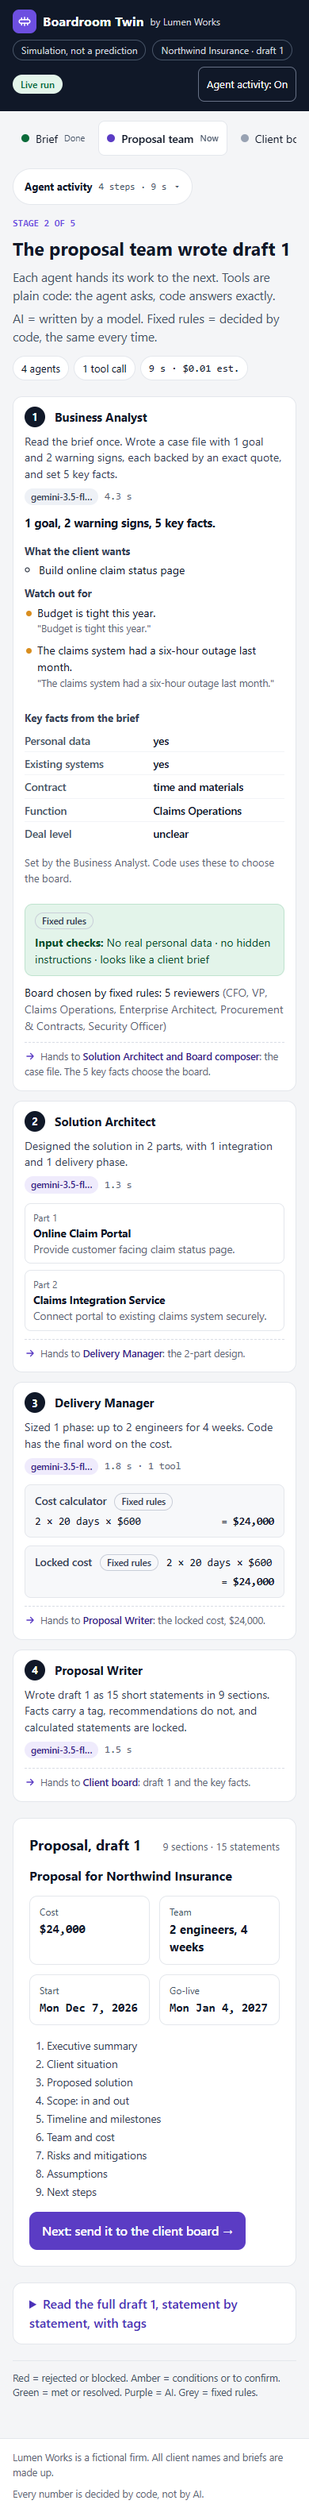
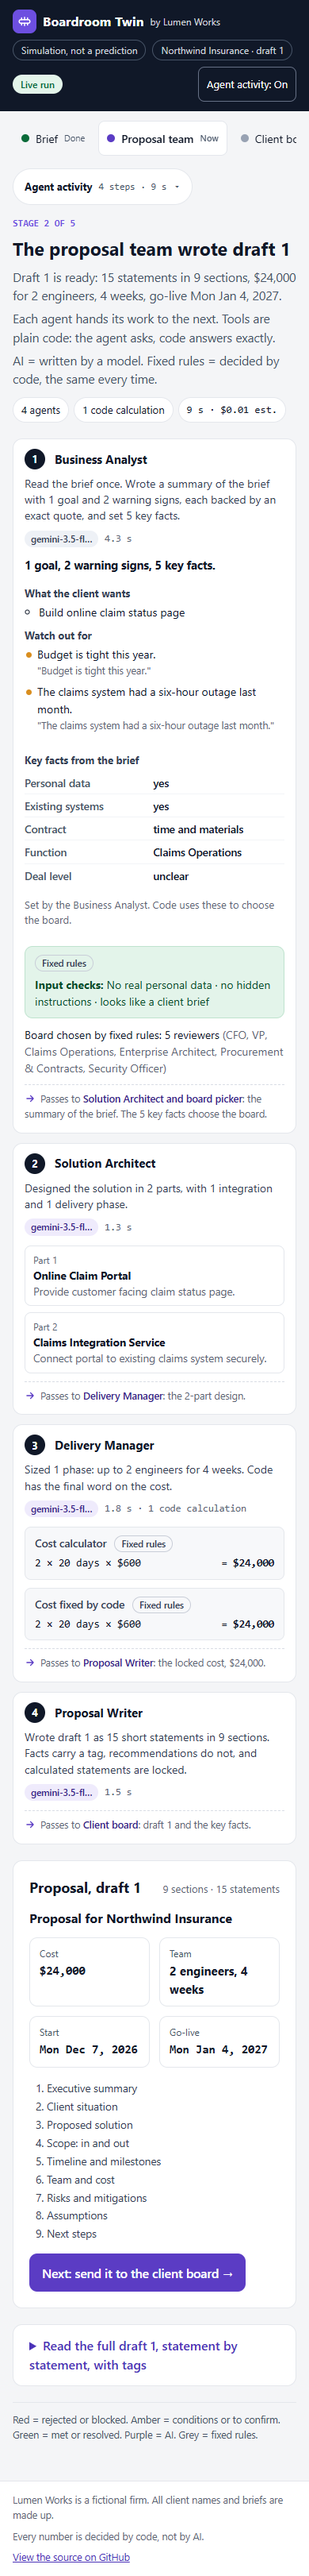
Record follow-up 2 wording and decisions, refresh screenshots

Changed region(s): [[0.0308, 0.0, 0.9538, 1.0]]

diff --git a/docs/wording.md b/docs/wording.md
@@ -82,3 +82,26 @@ Step labels, summaries, handoff lines, stop lines, the report summary and the ke
 ## Reviewer names
 
 Every screen, including the activity rail, names a reviewer by its seat title from the board plan (for example "VP, Customer Support"). Before the board plan is known, and for every other agent, the role label is used (`stepName()` in `labels.js`).
+
+## Follow-up 2 additions
+
+| Shown | Replaces |
+|---|---|
+| 6.4 of 10, needs 7.0 of 10 | 6.4, needs 7.0 |
+| weight 40% | ×0.40 |
+| Average score of the scoring reviewers (out of 10) | Average score, scoring seats |
+| Objections resolved | Objections fixed |
+| 4 items for the client to confirm | +4 conditions to confirm |
+| 3 of 5 reviewers can approve this draft | 3 of 5 board seats can proceed |
+| What they need (memo column) | Reason |
+| Passes to … | Hands to … |
+| board picker | Board composer |
+| summary of the brief | case file |
+| Cost fixed by code | Locked cost |
+| N code calculations | N tool calls / N tools |
+| AI steps | agent calls |
+| Tokens (AI text units) | Tokens |
+| Boardroom Twin: {stage} (tab title) | Boardroom Twin |
+| Coming in the full build: meeting questions and a prototype preview. | the Meeting prep and prototype cards |
+
+Takeaway lines under each stage title and the Brief intro line and five steps are also in `labels.js` or built in `static/js/takeaways.js` from run data.

diff --git a/docs/frontend-inventory.md b/docs/frontend-inventory.md
@@ -136,3 +136,12 @@ No existing assertion in `tests/js` had to change: every class, attribute and te
 - Client board: the "Verdict so far" header chip was removed because the same verdict shows in the box below it; the chip's tooltip moved to the box.
 - Activity rail: reviewers are named by their board titles, the same as on the board.
 - Objection tables: text columns clamp to two lines; the full text is in the tooltip.
+
+## Follow-up 2 (plain words and first impression)
+
+- New: a takeaway line under each stage title, built by code from run data.
+- New: a Brief intro line, and a five-step "How it works" strip. The four step cards became five steps, and their texts stay as each step's sub-line.
+- Scores carry their scale ("of 10"); weights read as percentages; report and memo labels reworded (see `docs/wording.md`).
+- Meeting prep and the prototype card are hidden behind one "Coming in the full build" line. Their code, the disabled button and the hints are kept for Phase 8. "Nothing is waiting for the client." now appears in the Report takeaway when both lists are empty.
+- Jargon labels reworded through the labels file. Kept as they are: "est." on the stage stat chips, because a unit test pins it; tooltips explain it.
+- Tab title per stage, a meta description, an inline SVG favicon, and a footer link to the source on GitHub (new tab, `rel="noopener"`).

diff --git a/docs/decisions.md b/docs/decisions.md
@@ -227,3 +227,9 @@ A short record of each choice, including ones still unconfirmed.
   - In code-written text, "C1" becomes "Q1" only when C1 is a client-only item in the current tracker (`setClientIds()`). Any other "C1", such as a statement id, is left as written.
   - In both objection tables, the fixed columns are narrower, the Challenge and What changed texts get the width, and each is clamped to two lines with the full text in the tooltip.
   - Report average edge case (server, `domain/report.py: score_number` only): when no scoring reviewer answered in both rounds, the value is "—" with the note "No reviewer answered in both rounds". The headline is unchanged and shows "—" in that case.
+
+### Phase 4b follow-up 2 (plain words)
+
+- Takeaway sentences are built in the browser by `static/js/takeaways.js` from run data only. A clause whose data is missing is left out. The board's "biggest gap" is the scoring reviewer furthest below its needed score, else the first Blocked sign-off check.
+- The Presales Lead and prototype placeholders are hidden, not removed, so Phase 8 can switch them back on. One muted line replaces them.
+- The footer links to the project's GitHub source. `tests/unit/test_static_page.py` allows that single URL next to the SVG namespace; the page still fetches nothing from outside, and the favicon is an inline data URI.
